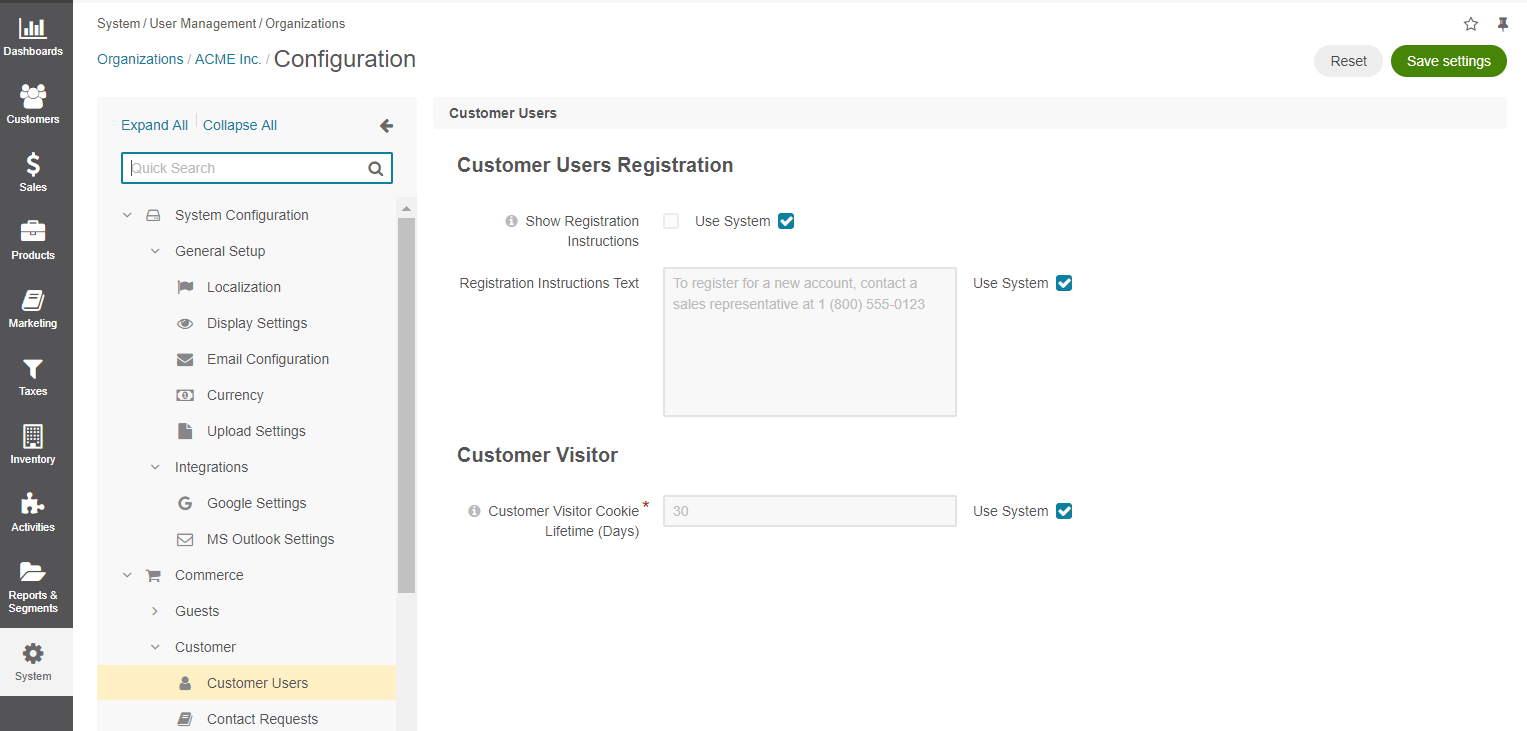
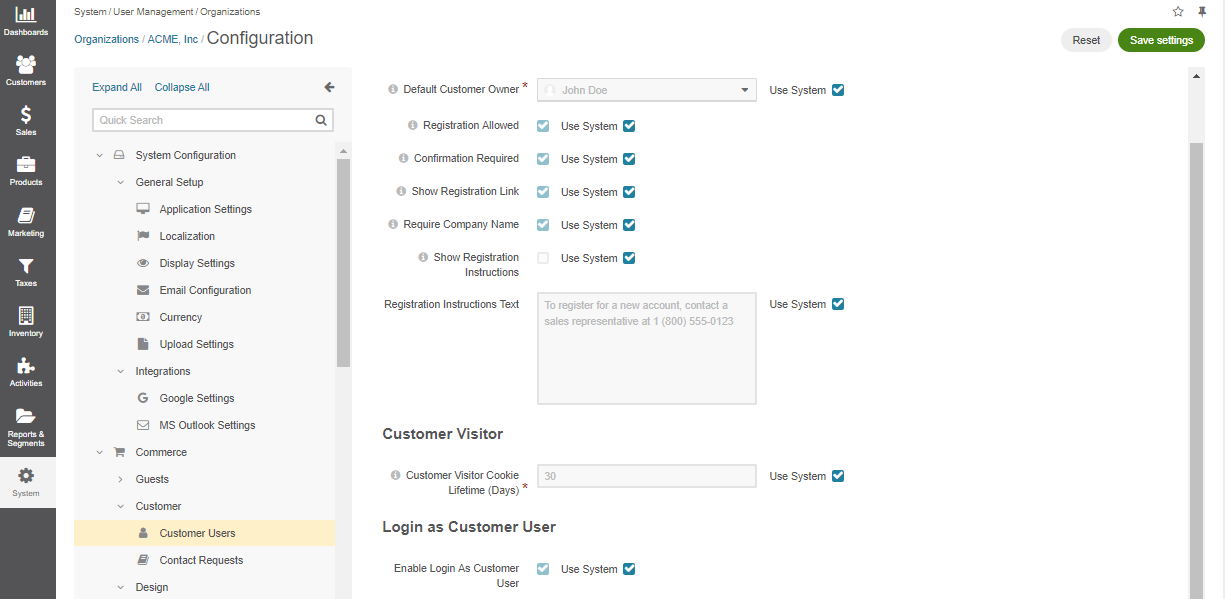
DOC-1561: Update the User Impersonation doc (#27188)

diff --git a/user/back-office/system/user-management/organizations/org-configuration/commerce/customers/organization-customer-users.rst b/user/back-office/system/user-management/organizations/org-configuration/commerce/customers/organization-customer-users.rst
@@ -22,17 +22,27 @@ To change the default customer user configuration settings for an organization:
 
 4. The following configuration options are available:
 
-   * **Show Registration Instructions** --- Enables/disables registration instructions on the storefront login page. This option is disabled by default.                                                                                              
-   * **Registration Instructions Text** --- If *Show Registration Instructions* is enabled, the text provided in the field is displayed on the storefront login page. 
+   * **Default Customer Owner** --- Service information that determines which user has full access to managing and viewing customer information. Usually, this is the default customer administrator or the administrator assigned to the customer. Applies to the customers created in the back-office as well as to those who register on the OroCommerce website.
+   * **Registration Allowed** --- Enables/disables registration of new customers from the storefront login screen.
+   * **Confirmation Required** --- Enables/disables the email confirmation step following user registration.
+   * **Show Registration Link** --- Shows/hides the registration link from the storefront login screen. The link is next to the Sign In link in the top bar.
+   * **Require Company Name** --- Shows/hides the company name field in the registration form in the storefront. Required for individual customers who do not belong to any company.
+   * **Show Registration Instructions** --- Enables/disables registration instructions on the storefront login page. This option is disabled by default.
+   * **Registration Instructions Text** --- If *Show Registration Instructions* is enabled, the text provided in the field is displayed on the storefront login page.
    * **Customer Visitor Cookie Lifetime (Days)** --- Once the provided period expires, active customer visitor (anonymous user) sessions will be reset.
 
-5. To customize any of these options:
+.. _organization-user-impersonation:
+
+5. In the **Login as Customer User** section, you can enable user impersonation for a specific organization. User impersonation allows back-office users with the **Impersonate User** :ref:`role capability <admin-capabilities>` to access and operate the OroCommerce storefront as if they were logged in as a specific customer user.
+
+6. To customize any of these options:
 
      a) Clear the **Use System** box next to the option.
      b) Select the new option.
 
-6. Click **Save Settings**.
-   
+7. Click **Save Settings**.
+
+
 .. finish
 
 .. include:: /include/include-images.rst

diff --git a/user/back-office/system/configuration/system/general-setup/user.rst b/user/back-office/system/configuration/system/general-setup/user.rst
@@ -68,19 +68,3 @@ Configure Two-Factor Authentication
   "**Code Validity Period**","This option determines how long the authentication code will be valid. If not used within the validity period, the code expires and the user must log in again. By default, the option is set to 1 hour."
   "**Code Length**","This option determines the number of characters in authentication code. By default, the option is set to 6."
 
-.. _system-configuration-user-impersonation:
-
-Configure User Impersonation
-----------------------------
-
-.. note:: This feature is only available in the Enterprise edition.
-
-.. csv-table::
-  :widths: 10, 30
-
-  "**Enable User Impersonation**","This option enables back-office users with the **Impersonate User** :ref:`role capability <admin-capabilities>` assigned to them to temporarily sign into the OroCommerce storefront as a specific customer user. This option is disabled by default. User impersonation is also available at :ref:`organization level <organization-user-settings>`.
-
-                                    .. image:: /user/img/system/config_system/user_impersonation.png
-                                       :alt: User impersonation config option"
-
-

diff --git a/user/back-office/system/configuration/commerce/customer/global-customer-users.rst b/user/back-office/system/configuration/commerce/customer/global-customer-users.rst
@@ -36,6 +36,24 @@ To change the default customer user configuration settings globally:
      a) Clear the **Use Default** box next to the option.
      b) Select the new option.
 
+.. _system-configuration-user-impersonation:
+
+Configure User Impersonation
+----------------------------
+
+.. note:: This feature is only available in the Enterprise edition.
+
+.. csv-table::
+  :widths: 10, 30
+
+  "**Login as Customer User**","This option enables back-office users with the **Impersonate User** :ref:`role capability <admin-capabilities>` assigned to them to temporarily sign into the OroCommerce storefront as a specific customer user. This option is disabled by default. User impersonation is also available at :ref:`organization level <organization-user-impersonation>`.
+
+                                    .. image:: /user/img/system/config_commerce/customer/user_impersonation.png
+                                       :alt: User impersonation config option"
+
+
+
+
 5. Click **Save Settings**.
 
 

diff --git a/user/back-office/customers/customer-users/index.rst b/user/back-office/customers/customer-users/index.rst
@@ -109,7 +109,7 @@ Impersonate a Customer User
 
 For troubleshooting purposes, user impersonation allows back-office users with the **Impersonate User** :ref:`role capability <admin-capabilities>` to access and operate the OroCommerce storefront as if they were logged in as a specific customer user. Such back-office user is redirected to the website assigned to the customer user that they are impersonating (i.e. the website where the customer user registered).
 
-.. hint:: Before proceeding, make sure this feature is enabled in the system configuration :ref:`globally <system-configuration-user-impersonation>` or :ref:`per organization <organization-user-settings>`.
+.. hint:: Before proceeding, make sure this feature is enabled in the system configuration :ref:`globally <system-configuration-user-impersonation>` or :ref:`per organization <organization-user-impersonation>`.
 
 You can perform impersonation from the customer user grid, or from the view page of the selected customer.
 

diff --git a/user/back-office/system/user-management/organizations/org-configuration/general-setup-org/index.rst b/user/back-office/system/user-management/organizations/org-configuration/general-setup-org/index.rst
@@ -14,7 +14,6 @@ Learn how to configure localization options, currency and tracking, as well and 
   * :ref:`Display Settings <configuration--general-setup--display-settings--organization>`
   * :ref:`Email Configuration <admin-configuration-email-configuration-organization>`
   * :ref:`Currency <admin-configuration-currency-org>`
-  * :ref:`User Settings <organization-user-settings>`
   * :ref:`Upload Settings <configuration-guide--system-configuration--general-setup-sysconfig--upload-settings-organization>`
 
 .. toctree::
@@ -25,6 +24,5 @@ Learn how to configure localization options, currency and tracking, as well and 
    organization-display-settings
    organization-email-settings
    organization-currency
-   organization-user-settings
    organization-upload-settings
    integrations/index

diff --git a/user/back-office/system/user-management/organizations/org-configuration/index.rst b/user/back-office/system/user-management/organizations/org-configuration/index.rst
@@ -23,7 +23,6 @@ The following categories of settings are available for system configuration at o
     * :ref:`Display Settings <configuration--general-setup--display-settings--organization>`
     * :ref:`Email Configuration <admin-configuration-email-configuration-organization>`
     * :ref:`Currency <admin-configuration-currency-org>`
-    * :ref:`User Settings <organization-user-settings>`
     * :ref:`Upload Settings <configuration-guide--system-configuration--general-setup-sysconfig--upload-settings-organization>`
 
   * Integrations
